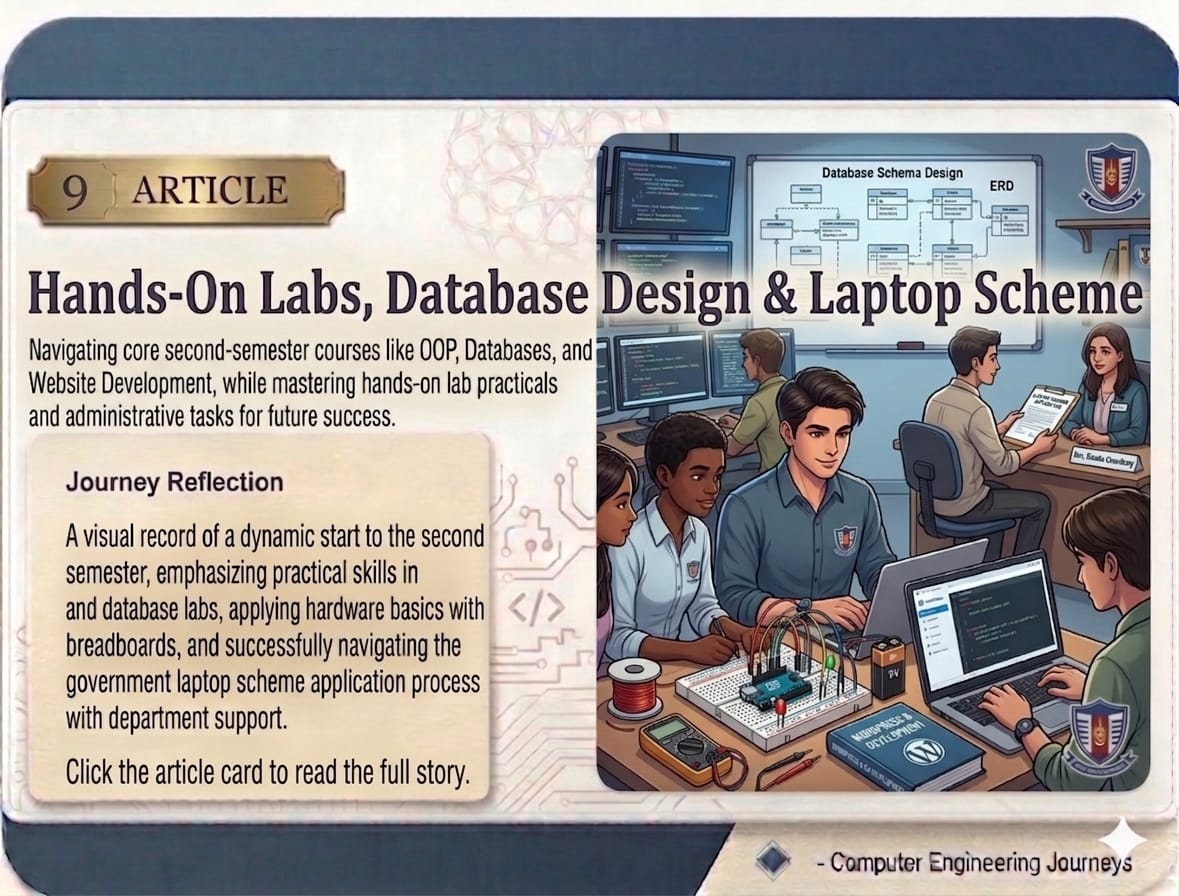
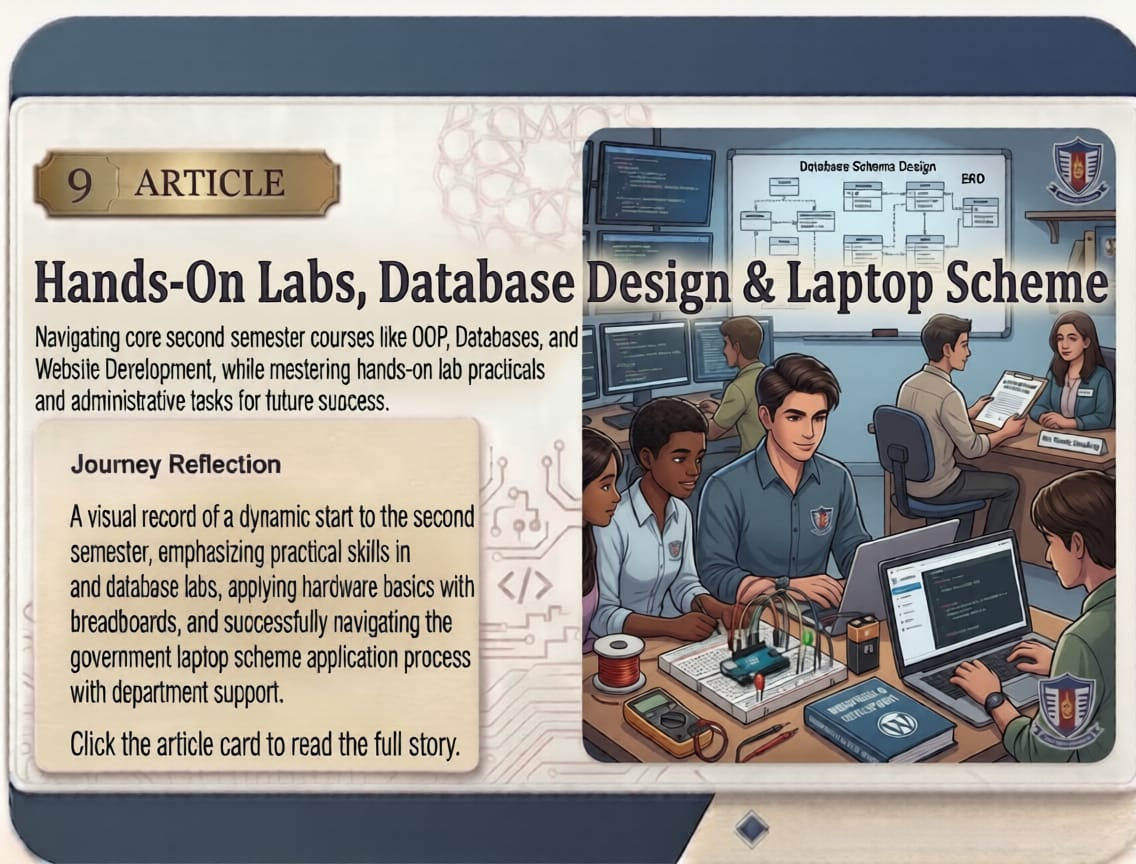
Attach all WhatsApp article cover images

diff --git a/_posts/2026-01-10-journey-to-university-first-impressions.md b/_posts/2026-01-10-journey-to-university-first-impressions.md
@@ -9,6 +9,7 @@ location: "Dina to Faisalabad"
 excerpt: "The move from Dina to Faisalabad marked the beginning of university life, filled with new routines, fresh responsibility, and a strong sense of possibility."
 intro: "The journey to university was more than travel. It was the beginning of independence, adjustment, and the first real step into a new chapter of life."
 cover_theme: "dawn"
+cover_image: "/assets/images/journal/article-01.jpeg"
 cover_subtitle: "From Dina to Faisalabad, the first chapter opened with travel, anticipation, and the first glimpse of campus life."
 cover_note: "A visual marker for the arrival phase of the Computer Engineering journey, shaped by travel, first impressions, and the beginning of hostel independence."
 filters:

diff --git a/_posts/2026-01-31-orientation-and-understanding-university.md b/_posts/2026-01-31-orientation-and-understanding-university.md
@@ -9,6 +9,7 @@ location: "Department and Campus"
 excerpt: "Orientation week helped transform uncertainty into clarity by introducing the campus, the department, and the expectations of university life."
 intro: "The first week of orientation became an important bridge between school life and the structure of university."
 cover_theme: "orientation"
+cover_image: "/assets/images/journal/article-04.jpeg"
 cover_subtitle: "Policies, departments, and academic expectations started turning uncertainty into a clearer university path."
 cover_note: "A visual marker for the foundational orientation phase of the Computer Engineering journey, focused on structure, discipline, and understanding the campus."
 filters:

diff --git a/_posts/2026-02-21-final-exams-and-group-study.md b/_posts/2026-02-21-final-exams-and-group-study.md
@@ -9,6 +9,7 @@ location: "Computer Engineering Department"
 excerpt: "Final exams tested not just subject knowledge, but also discipline, time management, teamwork, and the value of studying together."
 intro: "The end of the semester demanded more focus, but it also revealed how powerful structured preparation and group learning can be."
 cover_theme: "resilience"
+cover_image: "/assets/images/journal/article-07.jpeg"
 cover_subtitle: "Study groups, final preparation, and a strong GPA marked the turning point from pressure to confidence."
 cover_note: "A visual marker for the rigorous exam phase of the Computer Engineering journey, defined by preparation, collaboration, and academic confidence."
 filters:

diff --git a/_posts/2026-01-24-spiritual-connection-and-campus-life.md b/_posts/2026-01-24-spiritual-connection-and-campus-life.md
@@ -9,6 +9,7 @@ location: "University Mosque"
 excerpt: "University life brought spiritual growth alongside social adjustment, creating a balance between worship, community, and academic responsibility."
 intro: "Some of the most grounding moments in university life came from spaces that offered both peace and belonging."
 cover_theme: "faith"
+cover_image: "/assets/images/journal/article-03.jpeg"
 cover_subtitle: "Balancing campus life with prayer, reflection, and community helped shape a more grounded start to university."
 cover_note: "A visual marker for the spiritual and social integration phase of the Computer Engineering journey, where faith and belonging moved together."
 filters:

diff --git a/_posts/2026-02-14-motivation-seminars-and-achievements.md b/_posts/2026-02-14-motivation-seminars-and-achievements.md
@@ -9,6 +9,7 @@ location: "Campus and Home"
 excerpt: "Encouragement from teachers, exposure to industry speakers, and milestones like scholarship confirmation made this stage especially motivating."
 intro: "Sometimes progress feels strongest when effort, guidance, and opportunity begin to align at the same time."
 cover_theme: "achievement"
+cover_image: "/assets/images/journal/article-06.jpeg"
 cover_subtitle: "Mentorship, seminars, and milestone wins created a period of motivation and forward-looking momentum."
 cover_note: "A visual marker for the motivational growth phase of the Computer Engineering journey, shaped by expert guidance, scholarship success, and achievement."
 filters:

diff --git a/_posts/2026-02-07-lab-experiences-and-hands-on-learning.md b/_posts/2026-02-07-lab-experiences-and-hands-on-learning.md
@@ -9,6 +9,7 @@ location: "University Labs"
 excerpt: "Lab sessions turned classroom theory into practical skill, building confidence through coding, experiments, teamwork, and problem solving."
 intro: "Hands-on learning added energy and realism to the semester, showing how technical concepts come alive through practice."
 cover_theme: "labs"
+cover_image: "/assets/images/journal/article-05.jpeg"
 cover_subtitle: "Coding labs, ICT practice, and physics experiments turned theory into tangible technical confidence."
 cover_note: "A visual marker for the practical lab phase of the Computer Engineering journey, where systems, experiments, and teamwork came to life."
 filters:

diff --git a/_posts/2026-01-17-building-friendships-and-support.md b/_posts/2026-01-17-building-friendships-and-support.md
@@ -9,6 +9,7 @@ location: "Hostel and Campus"
 excerpt: "The first week of university showed how small conversations, shared meals, and mutual support could grow into lasting friendships."
 intro: "Adjustment becomes easier when the people around you are learning, struggling, and growing alongside you."
 cover_theme: "connection"
+cover_image: "/assets/images/journal/article-02.jpeg"
 cover_subtitle: "Shared meals, hostel conversations, and everyday routines gradually turned unfamiliar faces into a circle of support."
 cover_note: "A visual marker for the relationship-building phase of the Computer Engineering journey, centered on trust, belonging, and support."
 filters:
